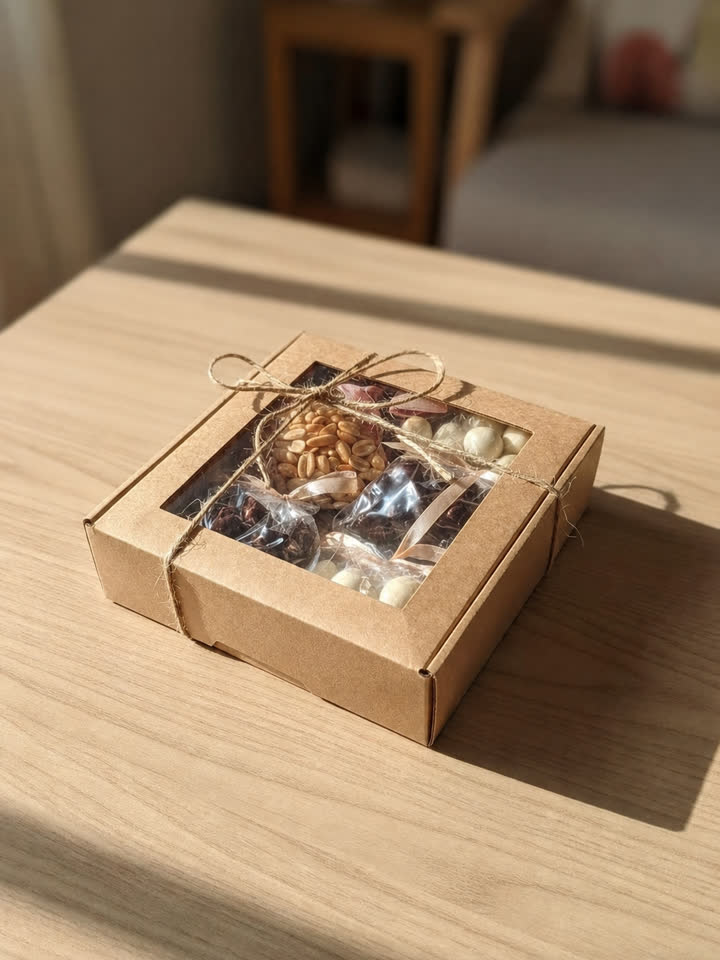
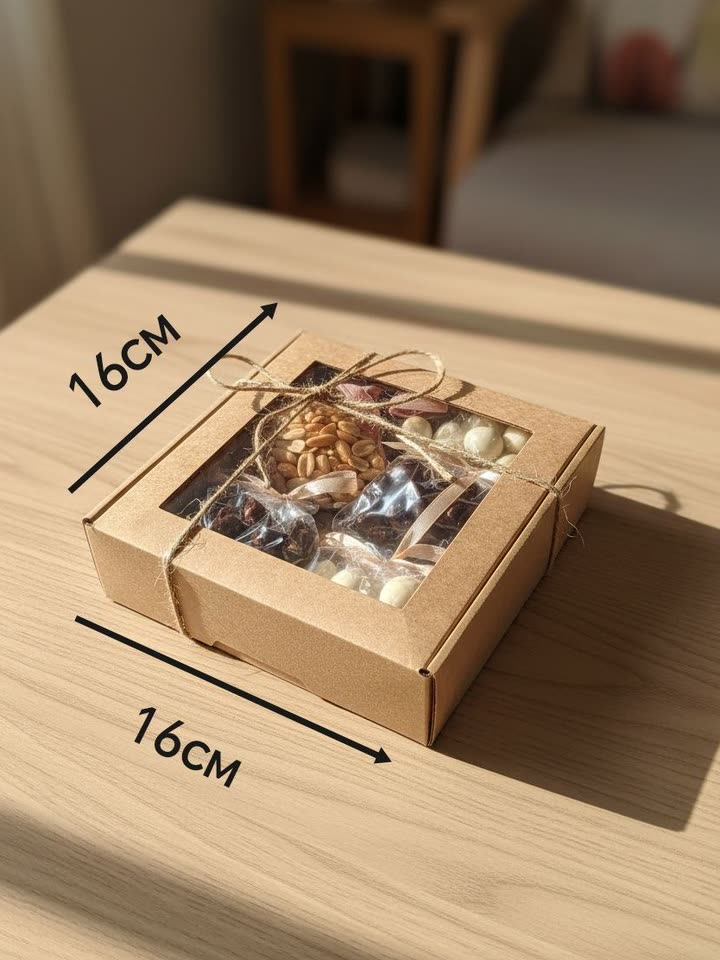
Restore size labels on chocolate nuts photo

diff --git a/site.js b/site.js
@@ -1,4 +1,4 @@
-const assetVersion = "20260723-1554";
+const assetVersion = "20260723-1602";
 
 function versionedAsset(source) {
   if (typeof source !== "string" || !source.startsWith("assets/")) return source;
